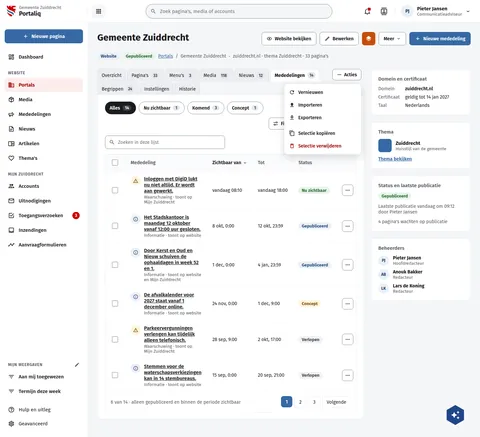
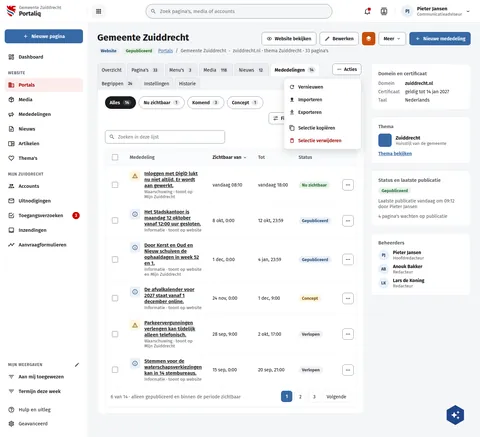
fix(screens): portal page header row gap and notice level tile as the dossiq boards draw them
PtPortal and PtMededelingenActies put 22px between the title row and the
crumb row; PtPortalInstellingen and live put 6px. The notice level tile is
the dossiq row icon tile: 32px, radius 8, an 18px glyph, 12px before the
title. Built with build.py --only.

Assisted-by: ClaudeCode:claude-opus-5-5

diff --git a/preview/screens/boards/PtMededelingenActies.html b/preview/screens/boards/PtMededelingenActies.html
@@ -163,7 +163,7 @@ a{color:var(--sc-primary, #3669a5)}a:hover{color:var(--sc-primary-deep, #234a78)
 </div>
     <div style="flex: 999 1 560px; min-width: 0; display: flex; flex-direction: column">
       <main style="padding: 24px 28px; display: flex; flex-direction: column; gap: 20px; max-width: 1240px; box-sizing: border-box; width: 100%">
-        <section style="display: flex; flex-direction: column; gap: 22px; padding: 4px 0 8px">
+        <section style="display: flex; flex-direction: column; gap: 6px; padding: 4px 0 8px">
           <div style="display: flex; flex-wrap: wrap; justify-content: space-between; align-items: flex-start; gap: 12px 24px">
             <h1 style="flex: 1 1 320px; min-width: 0; margin: 0; font-size: 28px; font-weight: 700">Gemeente Zuiddrecht</h1>
             <div style="flex: none; display: flex; flex-wrap: wrap; gap: 10px">
@@ -246,42 +246,42 @@ a{color:var(--sc-primary, #3669a5)}a:hover{color:var(--sc-primary-deep, #234a78)
               <tbody>
                 
                   <tr style="border-top: 1px solid var(--sc-work-soft, #eef0f3)"><td style="padding: 14px 16px"><input type="checkbox" aria-label="Selecteer Inloggen met DigiD lukt nu niet altijd. Er wordt aan gewerkt." style="width: 18px; height: 18px; accent-color: var(--sc-primary, #3669a5)"></td>
-                    <td style="padding: 14px 16px; max-width: 460px"><span style="display: flex; gap: 10px; align-items: flex-start"><span style="flex: none; width: 30px; height: 30px; border-radius: 15px; display: flex; align-items: center; justify-content: center; background: #fff4de; color: #7a4f00"><svg width="16" height="16" viewbox="0 0 24 24" fill="currentColor"><path d="M12,2L1,21H23M12,6L19.53,19H4.47M11,10V14H13V10M11,16V18H13V16"></path></svg></span><span style="display: flex; flex-direction: column; gap: 2px"><a href="#" style="font-size: 15px; font-weight: 600; color: var(--sc-work-ink, #1b1c1d)">Inloggen met DigiD lukt nu niet altijd. Er wordt aan gewerkt.</a><span style="font-size: 13px; color: var(--sc-work-muted, #5e6168)">Waarschuwing · toont op Mijn Zuiddrecht</span></span></span></td>
+                    <td style="padding: 14px 16px; max-width: 460px"><span style="display: flex; gap: 12px; align-items: flex-start"><span style="flex: none; width: 32px; height: 32px; border-radius: 8px; display: flex; align-items: center; justify-content: center; background: #fff4de; color: #7a4f00"><svg width="18" height="18" viewbox="0 0 24 24" fill="currentColor"><path d="M12,2L1,21H23M12,6L19.53,19H4.47M11,10V14H13V10M11,16V18H13V16"></path></svg></span><span style="display: flex; flex-direction: column; gap: 2px"><a href="#" style="font-size: 15px; font-weight: 600; color: var(--sc-work-ink, #1b1c1d)">Inloggen met DigiD lukt nu niet altijd. Er wordt aan gewerkt.</a><span style="font-size: 13px; color: var(--sc-work-muted, #5e6168)">Waarschuwing · toont op Mijn Zuiddrecht</span></span></span></td>
                     <td style="padding: 14px 16px; white-space: nowrap">vandaag 08:10</td>
                     <td style="padding: 14px 16px; white-space: nowrap">vandaag 18:00</td>
                     <td style="padding: 14px 16px"><span style="display: inline-block; padding: 3px 10px; border-radius: 12px; font-size: 13px; font-weight: 600; white-space: nowrap; background: #e7f3ea; color: #1e6b2a">Nu zichtbaar</span></td>
                   <td style="padding: 14px 16px; text-align: right"><button type="button" aria-label="Acties voor Inloggen met DigiD lukt nu niet altijd. Er wordt aan gewerkt." aria-haspopup="menu" style="width: 34px; height: 34px; display: inline-flex; align-items: center; justify-content: center; border: 1px solid var(--sc-work-field, #828a95); border-radius: 8px; background: #ffffff; color: var(--sc-work-text, #3d4047)"><svg width="18" height="18" viewbox="0 0 24 24" fill="currentColor" aria-hidden="true"><path d="M16,12A2,2 0 0,1 18,10A2,2 0 0,1 20,12A2,2 0 0,1 18,14A2,2 0 0,1 16,12M10,12A2,2 0 0,1 12,10A2,2 0 0,1 14,12A2,2 0 0,1 12,14A2,2 0 0,1 10,12M4,12A2,2 0 0,1 6,10A2,2 0 0,1 8,12A2,2 0 0,1 6,14A2,2 0 0,1 4,12Z"></path></svg></button></td></tr>
                 
                   <tr style="border-top: 1px solid var(--sc-work-soft, #eef0f3)"><td style="padding: 14px 16px"><input type="checkbox" aria-label="Selecteer Het Stadskantoor is maandag 12 oktober vanaf 12:00 uur gesloten." style="width: 18px; height: 18px; accent-color: var(--sc-primary, #3669a5)"></td>
-                    <td style="padding: 14px 16px; max-width: 460px"><span style="display: flex; gap: 10px; align-items: flex-start"><span style="flex: none; width: 30px; height: 30px; border-radius: 15px; display: flex; align-items: center; justify-content: center; background: var(--sc-primary-light, #eaf0f7); color: var(--sc-primary-deep, #234a78)"><svg width="16" height="16" viewbox="0 0 24 24" fill="currentColor"><path d="M11,9H13V7H11M12,20C7.59,20 4,16.41 4,12C4,7.59 7.59,4 12,4C16.41,4 20,7.59 20,12C20,16.41 16.41,20 12,20M12,2A10,10 0 0,0 2,12A10,10 0 0,0 12,22A10,10 0 0,0 22,12A10,10 0 0,0 12,2M11,17H13V11H11V17Z"></path></svg></span><span style="display: flex; flex-direction: column; gap: 2px"><a href="#" style="font-size: 15px; font-weight: 600; color: var(--sc-work-ink, #1b1c1d)">Het Stadskantoor is maandag 12 oktober vanaf 12:00 uur gesloten.</a><span style="font-size: 13px; color: var(--sc-work-muted, #5e6168)">Informatie · toont op website</span></span></span></td>
+                    <td style="padding: 14px 16px; max-width: 460px"><span style="display: flex; gap: 12px; align-items: flex-start"><span style="flex: none; width: 32px; height: 32px; border-radius: 8px; display: flex; align-items: center; justify-content: center; background: var(--sc-primary-light, #eaf0f7); color: var(--sc-primary-deep, #234a78)"><svg width="18" height="18" viewbox="0 0 24 24" fill="currentColor"><path d="M11,9H13V7H11M12,20C7.59,20 4,16.41 4,12C4,7.59 7.59,4 12,4C16.41,4 20,7.59 20,12C20,16.41 16.41,20 12,20M12,2A10,10 0 0,0 2,12A10,10 0 0,0 12,22A10,10 0 0,0 22,12A10,10 0 0,0 12,2M11,17H13V11H11V17Z"></path></svg></span><span style="display: flex; flex-direction: column; gap: 2px"><a href="#" style="font-size: 15px; font-weight: 600; color: var(--sc-work-ink, #1b1c1d)">Het Stadskantoor is maandag 12 oktober vanaf 12:00 uur gesloten.</a><span style="font-size: 13px; color: var(--sc-work-muted, #5e6168)">Informatie · toont op website</span></span></span></td>
                     <td style="padding: 14px 16px; white-space: nowrap">8 okt, 0:00</td>
                     <td style="padding: 14px 16px; white-space: nowrap">12 okt, 23:59</td>
                     <td style="padding: 14px 16px"><span style="display: inline-block; padding: 3px 10px; border-radius: 12px; font-size: 13px; font-weight: 600; white-space: nowrap; background: var(--sc-primary-light, #eaf0f7); color: var(--sc-primary-deep, #234a78)">Gepubliceerd</span></td>
                   <td style="padding: 14px 16px; text-align: right"><button type="button" aria-label="Acties voor Het Stadskantoor is maandag 12 oktober vanaf 12:00 uur gesloten." aria-haspopup="menu" style="width: 34px; height: 34px; display: inline-flex; align-items: center; justify-content: center; border: 1px solid var(--sc-work-field, #828a95); border-radius: 8px; background: #ffffff; color: var(--sc-work-text, #3d4047)"><svg width="18" height="18" viewbox="0 0 24 24" fill="currentColor" aria-hidden="true"><path d="M16,12A2,2 0 0,1 18,10A2,2 0 0,1 20,12A2,2 0 0,1 18,14A2,2 0 0,1 16,12M10,12A2,2 0 0,1 12,10A2,2 0 0,1 14,12A2,2 0 0,1 12,14A2,2 0 0,1 10,12M4,12A2,2 0 0,1 6,10A2,2 0 0,1 8,12A2,2 0 0,1 6,14A2,2 0 0,1 4,12Z"></path></svg></button></td></tr>
                 
                   <tr style="border-top: 1px solid var(--sc-work-soft, #eef0f3)"><td style="padding: 14px 16px"><input type="checkbox" aria-label="Selecteer Door Kerst en Oud en Nieuw schuiven de ophaaldagen in week 52 en 1." style="width: 18px; height: 18px; accent-color: var(--sc-primary, #3669a5)"></td>
-                    <td style="padding: 14px 16px; max-width: 460px"><span style="display: flex; gap: 10px; align-items: flex-start"><span style="flex: none; width: 30px; height: 30px; border-radius: 15px; display: flex; align-items: center; justify-content: center; background: var(--sc-primary-light, #eaf0f7); color: var(--sc-primary-deep, #234a78)"><svg width="16" height="16" viewbox="0 0 24 24" fill="currentColor"><path d="M11,9H13V7H11M12,20C7.59,20 4,16.41 4,12C4,7.59 7.59,4 12,4C16.41,4 20,7.59 20,12C20,16.41 16.41,20 12,20M12,2A10,10 0 0,0 2,12A10,10 0 0,0 12,22A10,10 0 0,0 22,12A10,10 0 0,0 12,2M11,17H13V11H11V17Z"></path></svg></span><span style="display: flex; flex-direction: column; gap: 2px"><a href="#" style="font-size: 15px; font-weight: 600; color: var(--sc-work-ink, #1b1c1d)">Door Kerst en Oud en Nieuw schuiven de ophaaldagen in week 52 en 1.</a><span style="font-size: 13px; color: var(--sc-work-muted, #5e6168)">Informatie · toont op website en Mijn Zuiddrecht</span></span></span></td>
+                    <td style="padding: 14px 16px; max-width: 460px"><span style="display: flex; gap: 12px; align-items: flex-start"><span style="flex: none; width: 32px; height: 32px; border-radius: 8px; display: flex; align-items: center; justify-content: center; background: var(--sc-primary-light, #eaf0f7); color: var(--sc-primary-deep, #234a78)"><svg width="18" height="18" viewbox="0 0 24 24" fill="currentColor"><path d="M11,9H13V7H11M12,20C7.59,20 4,16.41 4,12C4,7.59 7.59,4 12,4C16.41,4 20,7.59 20,12C20,16.41 16.41,20 12,20M12,2A10,10 0 0,0 2,12A10,10 0 0,0 12,22A10,10 0 0,0 22,12A10,10 0 0,0 12,2M11,17H13V11H11V17Z"></path></svg></span><span style="display: flex; flex-direction: column; gap: 2px"><a href="#" style="font-size: 15px; font-weight: 600; color: var(--sc-work-ink, #1b1c1d)">Door Kerst en Oud en Nieuw schuiven de ophaaldagen in week 52 en 1.</a><span style="font-size: 13px; color: var(--sc-work-muted, #5e6168)">Informatie · toont op website en Mijn Zuiddrecht</span></span></span></td>
                     <td style="padding: 14px 16px; white-space: nowrap">1 dec, 0:00</td>
                     <td style="padding: 14px 16px; white-space: nowrap">4 jan, 23:59</td>
                     <td style="padding: 14px 16px"><span style="display: inline-block; padding: 3px 10px; border-radius: 12px; font-size: 13px; font-weight: 600; white-space: nowrap; background: var(--sc-primary-light, #eaf0f7); color: var(--sc-primary-deep, #234a78)">Gepubliceerd</span></td>
                   <td style="padding: 14px 16px; text-align: right"><button type="button" aria-label="Acties voor Door Kerst en Oud en Nieuw schuiven de ophaaldagen in week 52 en 1." aria-haspopup="menu" style="width: 34px; height: 34px; display: inline-flex; align-items: center; justify-content: center; border: 1px solid var(--sc-work-field, #828a95); border-radius: 8px; background: #ffffff; color: var(--sc-work-text, #3d4047)"><svg width="18" height="18" viewbox="0 0 24 24" fill="currentColor" aria-hidden="true"><path d="M16,12A2,2 0 0,1 18,10A2,2 0 0,1 20,12A2,2 0 0,1 18,14A2,2 0 0,1 16,12M10,12A2,2 0 0,1 12,10A2,2 0 0,1 14,12A2,2 0 0,1 12,14A2,2 0 0,1 10,12M4,12A2,2 0 0,1 6,10A2,2 0 0,1 8,12A2,2 0 0,1 6,14A2,2 0 0,1 4,12Z"></path></svg></button></td></tr>
                 
                   <tr style="border-top: 1px solid var(--sc-work-soft, #eef0f3)"><td style="padding: 14px 16px"><input type="checkbox" aria-label="Selecteer De afvalkalender voor 2027 staat vanaf 1 december online." style="width: 18px; height: 18px; accent-color: var(--sc-primary, #3669a5)"></td>
-                    <td style="padding: 14px 16px; max-width: 460px"><span style="display: flex; gap: 10px; align-items: flex-start"><span style="flex: none; width: 30px; height: 30px; border-radius: 15px; display: flex; align-items: center; justify-content: center; background: var(--sc-primary-light, #eaf0f7); color: var(--sc-primary-deep, #234a78)"><svg width="16" height="16" viewbox="0 0 24 24" fill="currentColor"><path d="M11,9H13V7H11M12,20C7.59,20 4,16.41 4,12C4,7.59 7.59,4 12,4C16.41,4 20,7.59 20,12C20,16.41 16.41,20 12,20M12,2A10,10 0 0,0 2,12A10,10 0 0,0 12,22A10,10 0 0,0 22,12A10,10 0 0,0 12,2M11,17H13V11H11V17Z"></path></svg></span><span style="display: flex; flex-direction: column; gap: 2px"><a href="#" style="font-size: 15px; font-weight: 600; color: var(--sc-work-ink, #1b1c1d)">De afvalkalender voor 2027 staat vanaf 1 december online.</a><span style="font-size: 13px; color: var(--sc-work-muted, #5e6168)">Informatie · toont op website</span></span></span></td>
+                    <td style="padding: 14px 16px; max-width: 460px"><span style="display: flex; gap: 12px; align-items: flex-start"><span style="flex: none; width: 32px; height: 32px; border-radius: 8px; display: flex; align-items: center; justify-content: center; background: var(--sc-primary-light, #eaf0f7); color: var(--sc-primary-deep, #234a78)"><svg width="18" height="18" viewbox="0 0 24 24" fill="currentColor"><path d="M11,9H13V7H11M12,20C7.59,20 4,16.41 4,12C4,7.59 7.59,4 12,4C16.41,4 20,7.59 20,12C20,16.41 16.41,20 12,20M12,2A10,10 0 0,0 2,12A10,10 0 0,0 12,22A10,10 0 0,0 22,12A10,10 0 0,0 12,2M11,17H13V11H11V17Z"></path></svg></span><span style="display: flex; flex-direction: column; gap: 2px"><a href="#" style="font-size: 15px; font-weight: 600; color: var(--sc-work-ink, #1b1c1d)">De afvalkalender voor 2027 staat vanaf 1 december online.</a><span style="font-size: 13px; color: var(--sc-work-muted, #5e6168)">Informatie · toont op website</span></span></span></td>
                     <td style="padding: 14px 16px; white-space: nowrap">24 nov, 0:00</td>
                     <td style="padding: 14px 16px; white-space: nowrap">1 dec, 9:00</td>
                     <td style="padding: 14px 16px"><span style="display: inline-block; padding: 3px 10px; border-radius: 12px; font-size: 13px; font-weight: 600; white-space: nowrap; background: #fff4de; color: #7a4f00">Concept</span></td>
                   <td style="padding: 14px 16px; text-align: right"><button type="button" aria-label="Acties voor De afvalkalender voor 2027 staat vanaf 1 december online." aria-haspopup="menu" style="width: 34px; height: 34px; display: inline-flex; align-items: center; justify-content: center; border: 1px solid var(--sc-work-field, #828a95); border-radius: 8px; background: #ffffff; color: var(--sc-work-text, #3d4047)"><svg width="18" height="18" viewbox="0 0 24 24" fill="currentColor" aria-hidden="true"><path d="M16,12A2,2 0 0,1 18,10A2,2 0 0,1 20,12A2,2 0 0,1 18,14A2,2 0 0,1 16,12M10,12A2,2 0 0,1 12,10A2,2 0 0,1 14,12A2,2 0 0,1 12,14A2,2 0 0,1 10,12M4,12A2,2 0 0,1 6,10A2,2 0 0,1 8,12A2,2 0 0,1 6,14A2,2 0 0,1 4,12Z"></path></svg></button></td></tr>
                 
                   <tr style="border-top: 1px solid var(--sc-work-soft, #eef0f3)"><td style="padding: 14px 16px"><input type="checkbox" aria-label="Selecteer Parkeervergunningen verlengen kan tijdelijk alleen telefonisch." style="width: 18px; height: 18px; accent-color: var(--sc-primary, #3669a5)"></td>
-                    <td style="padding: 14px 16px; max-width: 460px"><span style="display: flex; gap: 10px; align-items: flex-start"><span style="flex: none; width: 30px; height: 30px; border-radius: 15px; display: flex; align-items: center; justify-content: center; background: #fff4de; color: #7a4f00"><svg width="16" height="16" viewbox="0 0 24 24" fill="currentColor"><path d="M12,2L1,21H23M12,6L19.53,19H4.47M11,10V14H13V10M11,16V18H13V16"></path></svg></span><span style="display: flex; flex-direction: column; gap: 2px"><a href="#" style="font-size: 15px; font-weight: 600; color: var(--sc-work-ink, #1b1c1d)">Parkeervergunningen verlengen kan tijdelijk alleen telefonisch.</a><span style="font-size: 13px; color: var(--sc-work-muted, #5e6168)">Waarschuwing · toont op Mijn Zuiddrecht</span></span></span></td>
+                    <td style="padding: 14px 16px; max-width: 460px"><span style="display: flex; gap: 12px; align-items: flex-start"><span style="flex: none; width: 32px; height: 32px; border-radius: 8px; display: flex; align-items: center; justify-content: center; background: #fff4de; color: #7a4f00"><svg width="18" height="18" viewbox="0 0 24 24" fill="currentColor"><path d="M12,2L1,21H23M12,6L19.53,19H4.47M11,10V14H13V10M11,16V18H13V16"></path></svg></span><span style="display: flex; flex-direction: column; gap: 2px"><a href="#" style="font-size: 15px; font-weight: 600; color: var(--sc-work-ink, #1b1c1d)">Parkeervergunningen verlengen kan tijdelijk alleen telefonisch.</a><span style="font-size: 13px; color: var(--sc-work-muted, #5e6168)">Waarschuwing · toont op Mijn Zuiddrecht</span></span></span></td>
                     <td style="padding: 14px 16px; white-space: nowrap">28 sep, 9:00</td>
                     <td style="padding: 14px 16px; white-space: nowrap">2 okt, 17:00</td>
                     <td style="padding: 14px 16px"><span style="display: inline-block; padding: 3px 10px; border-radius: 12px; font-size: 13px; font-weight: 600; white-space: nowrap; background: var(--sc-work-chip, #f0f1f3); color: var(--sc-work-text, #3d4047)">Verlopen</span></td>
                   <td style="padding: 14px 16px; text-align: right"><button type="button" aria-label="Acties voor Parkeervergunningen verlengen kan tijdelijk alleen telefonisch." aria-haspopup="menu" style="width: 34px; height: 34px; display: inline-flex; align-items: center; justify-content: center; border: 1px solid var(--sc-work-field, #828a95); border-radius: 8px; background: #ffffff; color: var(--sc-work-text, #3d4047)"><svg width="18" height="18" viewbox="0 0 24 24" fill="currentColor" aria-hidden="true"><path d="M16,12A2,2 0 0,1 18,10A2,2 0 0,1 20,12A2,2 0 0,1 18,14A2,2 0 0,1 16,12M10,12A2,2 0 0,1 12,10A2,2 0 0,1 14,12A2,2 0 0,1 12,14A2,2 0 0,1 10,12M4,12A2,2 0 0,1 6,10A2,2 0 0,1 8,12A2,2 0 0,1 6,14A2,2 0 0,1 4,12Z"></path></svg></button></td></tr>
                 
                   <tr style="border-top: 1px solid var(--sc-work-soft, #eef0f3)"><td style="padding: 14px 16px"><input type="checkbox" aria-label="Selecteer Stemmen voor de waterschapsverkiezingen kan in 14 stembureaus." style="width: 18px; height: 18px; accent-color: var(--sc-primary, #3669a5)"></td>
-                    <td style="padding: 14px 16px; max-width: 460px"><span style="display: flex; gap: 10px; align-items: flex-start"><span style="flex: none; width: 30px; height: 30px; border-radius: 15px; display: flex; align-items: center; justify-content: center; background: var(--sc-primary-light, #eaf0f7); color: var(--sc-primary-deep, #234a78)"><svg width="16" height="16" viewbox="0 0 24 24" fill="currentColor"><path d="M11,9H13V7H11M12,20C7.59,20 4,16.41 4,12C4,7.59 7.59,4 12,4C16.41,4 20,7.59 20,12C20,16.41 16.41,20 12,20M12,2A10,10 0 0,0 2,12A10,10 0 0,0 12,22A10,10 0 0,0 22,12A10,10 0 0,0 12,2M11,17H13V11H11V17Z"></path></svg></span><span style="display: flex; flex-direction: column; gap: 2px"><a href="#" style="font-size: 15px; font-weight: 600; color: var(--sc-work-ink, #1b1c1d)">Stemmen voor de waterschapsverkiezingen kan in 14 stembureaus.</a><span style="font-size: 13px; color: var(--sc-work-muted, #5e6168)">Informatie · toont op website</span></span></span></td>
+                    <td style="padding: 14px 16px; max-width: 460px"><span style="display: flex; gap: 12px; align-items: flex-start"><span style="flex: none; width: 32px; height: 32px; border-radius: 8px; display: flex; align-items: center; justify-content: center; background: var(--sc-primary-light, #eaf0f7); color: var(--sc-primary-deep, #234a78)"><svg width="18" height="18" viewbox="0 0 24 24" fill="currentColor"><path d="M11,9H13V7H11M12,20C7.59,20 4,16.41 4,12C4,7.59 7.59,4 12,4C16.41,4 20,7.59 20,12C20,16.41 16.41,20 12,20M12,2A10,10 0 0,0 2,12A10,10 0 0,0 12,22A10,10 0 0,0 22,12A10,10 0 0,0 12,2M11,17H13V11H11V17Z"></path></svg></span><span style="display: flex; flex-direction: column; gap: 2px"><a href="#" style="font-size: 15px; font-weight: 600; color: var(--sc-work-ink, #1b1c1d)">Stemmen voor de waterschapsverkiezingen kan in 14 stembureaus.</a><span style="font-size: 13px; color: var(--sc-work-muted, #5e6168)">Informatie · toont op website</span></span></span></td>
                     <td style="padding: 14px 16px; white-space: nowrap">15 sep, 0:00</td>
                     <td style="padding: 14px 16px; white-space: nowrap">20 sep, 21:00</td>
                     <td style="padding: 14px 16px"><span style="display: inline-block; padding: 3px 10px; border-radius: 12px; font-size: 13px; font-weight: 600; white-space: nowrap; background: var(--sc-work-chip, #f0f1f3); color: var(--sc-work-text, #3d4047)">Verlopen</span></td>

diff --git a/screens-src/zuiddrecht/PtMededelingenActies.dc.html b/screens-src/zuiddrecht/PtMededelingenActies.dc.html
@@ -20,7 +20,7 @@ a{color:#3669a5}a:hover{color:#234a78}
     <div style="flex: 0 0 264px; width: 264px; display: flex; align-items: stretch"><dc-import name="AppZijbalk" style="display: block; width: 100%; min-height: 100%; flex: 1 1 auto" app="portaliq" primary="Nieuwe pagina" active="Portals" groups="{{ nav }}" hint-size="264px,1310px"></dc-import></div>
     <div style="flex: 999 1 560px; min-width: 0; display: flex; flex-direction: column">
       <main style="padding: 24px 28px; display: flex; flex-direction: column; gap: 20px; max-width: 1240px; box-sizing: border-box; width: 100%">
-        <section style="display: flex; flex-direction: column; gap: 22px; padding: 4px 0 8px">
+        <section style="display: flex; flex-direction: column; gap: 6px; padding: 4px 0 8px">
           <div style="display: flex; flex-wrap: wrap; justify-content: space-between; align-items: flex-start; gap: 12px 24px">
             <h1 style="flex: 1 1 320px; min-width: 0; margin: 0; font-size: 28px; font-weight: 700">Gemeente Zuiddrecht</h1>
             <div style="flex: none; display: flex; flex-wrap: wrap; gap: 10px">
@@ -75,7 +75,7 @@ a{color:#3669a5}a:hover{color:#234a78}
               <tbody>
                 <sc-for list="{{ rows }}" as="r" hint-placeholder-count="6">
                   <tr style="border-top: 1px solid #eef0f3"><td style="padding: 14px 16px"><input type="checkbox" aria-label="{{ r.selectLabel }}" style="width: 18px; height: 18px; accent-color: #3669a5"></td>
-                    <td style="padding: 14px 16px; max-width: 460px"><span style="display: flex; gap: 10px; align-items: flex-start"><span style="{{ r.levelStyle }}"><svg width="16" height="16" viewBox="0 0 24 24" fill="currentColor"><path d="{{ r.levelIcon }}"></path></svg></span><span style="display: flex; flex-direction: column; gap: 2px"><a href="#" style="font-size: 15px; font-weight: 600; color: #1b1c1d">{{ r.message }}</a><span style="font-size: 13px; color: #5e6168">{{ r.level }} · {{ r.surfaces }}</span></span></span></td>
+                    <td style="padding: 14px 16px; max-width: 460px"><span style="display: flex; gap: 12px; align-items: flex-start"><span style="{{ r.levelStyle }}"><svg width="18" height="18" viewBox="0 0 24 24" fill="currentColor"><path d="{{ r.levelIcon }}"></path></svg></span><span style="display: flex; flex-direction: column; gap: 2px"><a href="#" style="font-size: 15px; font-weight: 600; color: #1b1c1d">{{ r.message }}</a><span style="font-size: 13px; color: #5e6168">{{ r.level }} · {{ r.surfaces }}</span></span></span></td>
                     <td style="padding: 14px 16px; white-space: nowrap">{{ r.from }}</td>
                     <td style="padding: 14px 16px; white-space: nowrap">{{ r.until }}</td>
                     <td style="padding: 14px 16px"><span style="{{ r.statusStyle }}">{{ r.status }}</span></td>
@@ -128,7 +128,7 @@ class Component extends DCLogic {
     const tabs = withCounts([['Overzicht', 'O'], ["Pagina's 33", 'P'], ["Menu's 3", 'M'], ['Media 118', 'D'], ['Nieuws 12', 'N'], ['Mededelingen 14', 'A'], ['Begrippen 24', 'B'], ['Instellingen', 'I'], ['Historie', 'H']].map(([label, k]) => ({ label, sel: k === 'A' ? 'true' : 'false', style: tab(k === 'A') })));
     const pill = (bg, fg) => 'display: inline-block; padding: 3px 10px; border-radius: 12px; font-size: 13px; font-weight: 600; white-space: nowrap; background: ' + bg + '; color: ' + fg;
     const S = { 'Nu zichtbaar': pill('#e7f3ea', '#1e6b2a'), 'Gepubliceerd': pill('#eaf0f7', '#234a78'), 'Concept': pill('#fff4de', '#7a4f00'), 'Verlopen': pill('#f0f1f3', '#3d4047') };
-    const lvl = (warn) => 'flex: none; width: 30px; height: 30px; border-radius: 15px; display: flex; align-items: center; justify-content: center; ' + (warn ? 'background: #fff4de; color: #7a4f00' : 'background: #eaf0f7; color: #234a78');
+    const lvl = (warn) => 'flex: none; width: 32px; height: 32px; border-radius: 8px; display: flex; align-items: center; justify-content: center; ' + (warn ? 'background: #fff4de; color: #7a4f00' : 'background: #eaf0f7; color: #234a78');
     const data = [
       ['Inloggen met DigiD lukt nu niet altijd. Er wordt aan gewerkt.', true, 'Mijn Zuiddrecht', 'vandaag 08:10', 'vandaag 18:00', 'Nu zichtbaar'],
       ['Het Stadskantoor is maandag 12 oktober vanaf 12:00 uur gesloten.', false, 'website', '8 okt, 0:00', '12 okt, 23:59', 'Gepubliceerd'],

diff --git a/screens-src/zuiddrecht/PtPortal.dc.html b/screens-src/zuiddrecht/PtPortal.dc.html
@@ -20,7 +20,7 @@ a{color:#3669a5}a:hover{color:#234a78}
     <div style="flex: 0 0 264px; width: 264px; display: flex; align-items: stretch"><dc-import name="AppZijbalk" style="display: block; width: 100%; min-height: 100%; flex: 1 1 auto" app="portaliq" primary="Nieuwe pagina" active="Portals" groups="{{ nav }}" hint-size="264px,1420px"></dc-import></div>
     <div style="flex: 999 1 560px; min-width: 0; display: flex; flex-direction: column">
       <main style="padding: 24px 28px; display: flex; flex-direction: column; gap: 20px; max-width: 1240px; box-sizing: border-box; width: 100%">
-        <section style="display: flex; flex-direction: column; gap: 22px; padding: 4px 0 8px">
+        <section style="display: flex; flex-direction: column; gap: 6px; padding: 4px 0 8px">
           <div style="display: flex; flex-wrap: wrap; justify-content: space-between; align-items: flex-start; gap: 12px 24px">
             <h1 style="flex: 1 1 320px; min-width: 0; margin: 0; font-size: 28px; font-weight: 700">Gemeente Zuiddrecht</h1>
             <div style="flex: none; display: flex; flex-wrap: wrap; gap: 10px">

diff --git a/preview/screens/boards/PtPortal.html b/preview/screens/boards/PtPortal.html
@@ -163,7 +163,7 @@ a{color:var(--sc-primary, #3669a5)}a:hover{color:var(--sc-primary-deep, #234a78)
 </div>
     <div style="flex: 999 1 560px; min-width: 0; display: flex; flex-direction: column">
       <main style="padding: 24px 28px; display: flex; flex-direction: column; gap: 20px; max-width: 1240px; box-sizing: border-box; width: 100%">
-        <section style="display: flex; flex-direction: column; gap: 22px; padding: 4px 0 8px">
+        <section style="display: flex; flex-direction: column; gap: 6px; padding: 4px 0 8px">
           <div style="display: flex; flex-wrap: wrap; justify-content: space-between; align-items: flex-start; gap: 12px 24px">
             <h1 style="flex: 1 1 320px; min-width: 0; margin: 0; font-size: 28px; font-weight: 700">Gemeente Zuiddrecht</h1>
             <div style="flex: none; display: flex; flex-wrap: wrap; gap: 10px">
